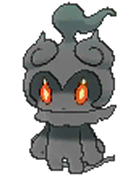
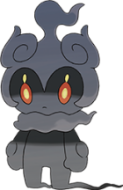
resize pokedex image code
- new Marshadow image too

diff --git a/src/generator/PokemonInfoGen.java b/src/generator/PokemonInfoGen.java
@@ -1,5 +1,6 @@
 package generator;
 
+import draw.ImageUtils;
 import pokemon.PokemonInfo;
 import pokemon.PokemonNamesies;
 import pokemon.evolution.EvolutionType;
@@ -29,13 +30,49 @@ class PokemonInfoGen {
         newPokemonInfoCompare();
 //        pokemonInfoStuff();
 //        updateNum();
+//        resizePokedexImages();
+    }
+
+    private static void resizePokedexImages() {
+        final int maxWidth = 140;
+        final int maxHeight = 190;
+
+        for (int num = 1; num <= PokemonInfo.NUM_POKEMON; num++) {
+            File imageFile = getImageFile(num, "", Folder.POKEDEX_TILES);
+            BufferedImage image = FileIO.readImage(imageFile);
+            int width = image.getWidth();
+            int height = image.getHeight();
+
+            boolean rescaled = false;
+            if (width > maxWidth) {
+                image = ImageUtils.scaleImageByWidth(image, maxWidth);
+                rescaled = true;
+            }
+            if (height > maxHeight) {
+                image = ImageUtils.scaleImageByHeight(image, maxHeight);
+                rescaled = true;
+            }
+
+            if (rescaled) {
+                System.out.println("Rescaling image " + imageFile.getPath() + " from " + getCoordinatesString(width, height) + " to " + getCoordinatesString(image));
+                FileIO.writeImage(image, imageFile);
+            }
+        }
+    }
+
+    private static String getCoordinatesString(BufferedImage image) {
+        return getCoordinatesString(image.getWidth(), image.getHeight());
+    }
+
+    private static String getCoordinatesString(int width, int height) {
+        return "(" + width + ", " + height + ")";
     }
 
     private static File getImageFile(int num, String suffix, String folderPath) {
-        return new File(folderPath + num + suffix + ".png");
+        return new File(folderPath + String.format("%03d", num) + suffix + ".png");
     }
 
-    private static void updateImage(int num, int newNum, String imageSuffix, String folderPath) {
+    private static void updateImageNum(int num, int newNum, String imageSuffix, String folderPath) {
         File imageFile = getImageFile(num, imageSuffix, folderPath);
         if (imageFile.exists()) {
             BufferedImage image = FileIO.readImage(imageFile);
@@ -52,12 +89,12 @@ class PokemonInfoGen {
 
         for (int num = PokemonInfo.NUM_POKEMON; num >= startNum; num--) {
             int newNum = num + (newStartNum - startNum);
-            updateImage(num, newNum, "", Folder.POKEMON_TILES);
-            updateImage(num, newNum, "-back", Folder.POKEMON_TILES);
-            updateImage(num, newNum, "-shiny", Folder.POKEMON_TILES);
-            updateImage(num, newNum, "-shiny-back", Folder.POKEMON_TILES);
-            updateImage(num, newNum, "-small", Folder.PARTY_TILES);
-            updateImage(num, newNum, "", Folder.POKEDEX_TILES);
+            updateImageNum(num, newNum, "", Folder.POKEMON_TILES);
+            updateImageNum(num, newNum, "-back", Folder.POKEMON_TILES);
+            updateImageNum(num, newNum, "-shiny", Folder.POKEMON_TILES);
+            updateImageNum(num, newNum, "-shiny-back", Folder.POKEMON_TILES);
+            updateImageNum(num, newNum, "-small", Folder.PARTY_TILES);
+            updateImageNum(num, newNum, "", Folder.POKEDEX_TILES);
         }
 
         Scanner in = FileIO.openFile(FileName.POKEMON_INFO);

diff --git a/src/draw/ImageUtils.java b/src/draw/ImageUtils.java
@@ -84,8 +84,12 @@ public final class ImageUtils {
                 null);
     }
 
-    public static BufferedImage scaleImageCoordinates(BufferedImage img, int maxCoordinate) {
-        return scaleImage(img, (float) maxCoordinate/Math.max(img.getWidth(), img.getHeight()));
+    public static BufferedImage scaleImageByHeight(BufferedImage img, int maxHeight) {
+        return scaleImage(img, (float)maxHeight/img.getHeight());
+    }
+
+    public static BufferedImage scaleImageByWidth(BufferedImage img, int maxWidth) {
+        return scaleImage(img, (float)maxWidth/img.getWidth());
     }
 
     public static BufferedImage scaleImage(BufferedImage img, float scale) {
